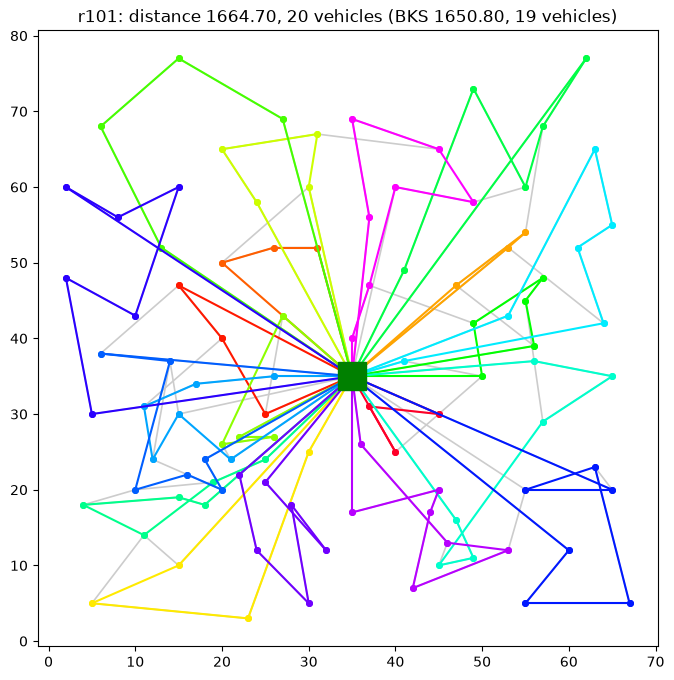
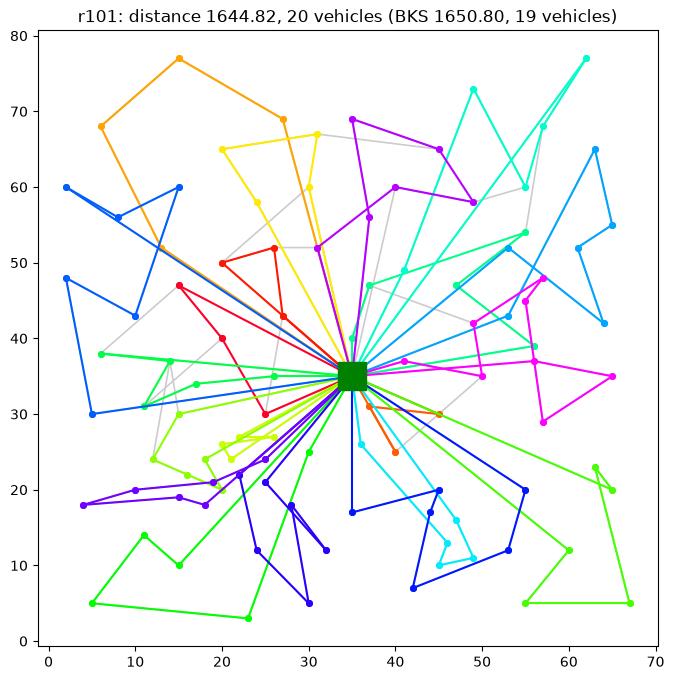
docs: refresh benchmark results (120s, max_failed_iters=50)
Full 56-instance run at 120 s/instance with the stagnation cutoff
raised to 50 non-improving iterations, seed 42: mean BKS gap +0.81%
(was +2.05%), fleet 442 vs 405 (r111/r112/rc106 each one vehicle
fewer), 19 same-fleet distance improvements and no regressions vs the
previous 60 s baseline. The r101/rc101/rc201 showcase solutions
improved and their images are re-rendered.

diff --git a/README.md b/README.md
@@ -101,17 +101,17 @@ tests/          one test file per source submodule
 
 ## Results
 
-All 56 Solomon 100-customer instances, 60 s budget per instance, seeded run (`rng=random.Random(42)`), default settings (hierarchical objective), 2026-07-09. Total wall time 25.6 min — most runs converge and stop on the 20-failure streak well before the 60 s cap. Mean distance gap to the [SINTEF best-known solutions](https://www.sintef.no/projectweb/top/vrptw/solomon-benchmark/) is **+2.05%**, with the best-known vehicle count matched on **27/56** instances (total fleet 445 vs 405) and 13 instances solved to the exact best-known solution. A negative gap means less distance than the BKS using extra vehicles — not a better solution under the hierarchical objective.
+All 56 Solomon 100-customer instances, 120 s budget per instance with the stagnation cutoff raised to 50 non-improving iterations (`max_failed_iters=50`), seeded run (`rng=random.Random(42)`), default settings (hierarchical objective), 2026-07-14. Total wall time 58.2 min — most runs still converge and stop on the failure streak before the 120 s cap (7/56 hit it). Mean distance gap to the [SINTEF best-known solutions](https://www.sintef.no/projectweb/top/vrptw/solomon-benchmark/) is **+0.81%**, with the best-known vehicle count matched on **27/56** instances (total fleet 442 vs 405) and 13 instances solved to the exact best-known solution. A negative gap means less distance than the BKS using extra vehicles — not a better solution under the hierarchical objective.
 
 | class | instances | mean gap | fleet (BKS) | at BKS fleet | time |
 |-------|--:|--:|--:|--:|--:|
-| C1 | 9 | +1.32% | 90 (90) | 9/9 | 1.9 min |
-| C2 | 8 | +1.11% | 24 (24) | 8/8 | 3.3 min |
-| R1 | 12 | +0.48% | 160 (143) | 0/12 | 4.5 min |
-| R2 | 11 | +1.92% | 36 (30) | 5/11 | 7.7 min |
-| RC1 | 8 | +2.09% | 106 (92) | 0/8 | 3.0 min |
-| RC2 | 8 | +6.34% | 29 (26) | 5/8 | 5.2 min |
-| **all** | **56** | **+2.05%** | **445 (405)** | **27/56** | **25.6 min** |
+| C1 | 9 | +1.32% | 90 (90) | 9/9 | 4.2 min |
+| C2 | 8 | +0.73% | 24 (24) | 8/8 | 7.1 min |
+| R1 | 12 | -0.48% | 158 (143) | 0/12 | 10.2 min |
+| R2 | 11 | +0.68% | 36 (30) | 5/11 | 17.4 min |
+| RC1 | 8 | +0.99% | 105 (92) | 0/8 | 6.0 min |
+| RC2 | 8 | +2.25% | 29 (26) | 5/8 | 13.3 min |
+| **all** | **56** | **+0.81%** | **442 (405)** | **27/56** | **58.2 min** |
 
 One solved instance per Solomon class from this run — the light-grey routes underneath are the SINTEF best-known solution (fetched with `uv run python scripts/fetch_bks_solutions.py` into [`data/solutions/solomon-bks/`](data/solutions/solomon-bks/)). The `.sol` files live in [`data/solutions/solomon/`](data/solutions/solomon/), and the images are rendered from them with `uv run python scripts/render_readme_images.py`:
 
@@ -121,12 +121,12 @@ One solved instance per Solomon class from this run — the light-grey routes un
     <td><img src="docs/solutions/c201.png" alt="c201 solution: distance 591.56, 3 vehicles (BKS 591.56, 3 vehicles)" width="400"></td>
   </tr>
   <tr>
-    <td><img src="docs/solutions/r101.png" alt="r101 solution: distance 1664.70, 20 vehicles (BKS 1650.80, 19 vehicles)" width="400"></td>
+    <td><img src="docs/solutions/r101.png" alt="r101 solution: distance 1644.82, 20 vehicles (BKS 1650.80, 19 vehicles)" width="400"></td>
     <td><img src="docs/solutions/r201.png" alt="r201 solution: distance 1263.38, 4 vehicles (BKS 1252.37, 4 vehicles)" width="400"></td>
   </tr>
   <tr>
-    <td><img src="docs/solutions/rc101.png" alt="rc101 solution: distance 1685.47, 16 vehicles (BKS 1696.95, 14 vehicles)" width="400"></td>
-    <td><img src="docs/solutions/rc201.png" alt="rc201 solution: distance 1534.84, 4 vehicles (BKS 1406.94, 4 vehicles)" width="400"></td>
+    <td><img src="docs/solutions/rc101.png" alt="rc101 solution: distance 1670.12, 16 vehicles (BKS 1696.95, 14 vehicles)" width="400"></td>
+    <td><img src="docs/solutions/rc201.png" alt="rc201 solution: distance 1462.75, 4 vehicles (BKS 1406.94, 4 vehicles)" width="400"></td>
   </tr>
 </table>
 
@@ -137,86 +137,86 @@ One solved instance per Solomon class from this run — the light-grey routes un
 
 | instance | distance | BKS distance | gap | vehicles | BKS vehicles | time (s) |
 |----------|--:|--:|--:|--:|--:|--:|
-| c101 | 828.94 | 828.94 | +0.00% | 10 | 10 | 4.0 |
-| c102 | 828.94 | 828.94 | +0.00% | 10 | 10 | 15.9 |
-| c103 | 878.36 | 828.06 | +6.07% | 10 | 10 | 25.1 |
-| c104 | 872.78 | 824.78 | +5.82% | 10 | 10 | 21.8 |
-| c105 | 828.94 | 828.94 | +0.00% | 10 | 10 | 4.6 |
-| c106 | 828.94 | 828.94 | +0.00% | 10 | 10 | 6.9 |
-| c107 | 828.94 | 828.94 | +0.00% | 10 | 10 | 7.4 |
-| c108 | 828.94 | 828.94 | +0.00% | 10 | 10 | 13.0 |
-| c109 | 828.94 | 828.94 | +0.00% | 10 | 10 | 14.6 |
+| c101 | 828.94 | 828.94 | +0.00% | 10 | 10 | 9.8 |
+| c102 | 828.94 | 828.94 | +0.00% | 10 | 10 | 35.9 |
+| c103 | 878.36 | 828.06 | +6.07% | 10 | 10 | 48.8 |
+| c104 | 872.78 | 824.78 | +5.82% | 10 | 10 | 46.5 |
+| c105 | 828.94 | 828.94 | +0.00% | 10 | 10 | 11.7 |
+| c106 | 828.94 | 828.94 | +0.00% | 10 | 10 | 17.5 |
+| c107 | 828.94 | 828.94 | +0.00% | 10 | 10 | 18.5 |
+| c108 | 828.94 | 828.94 | +0.00% | 10 | 10 | 29.9 |
+| c109 | 828.94 | 828.94 | +0.00% | 10 | 10 | 34.2 |
 
 **C2**
 
 | instance | distance | BKS distance | gap | vehicles | BKS vehicles | time (s) |
 |----------|--:|--:|--:|--:|--:|--:|
-| c201 | 591.56 | 591.56 | +0.00% | 3 | 3 | 4.3 |
-| c202 | 591.56 | 591.56 | +0.00% | 3 | 3 | 36.0 |
-| c203 | 600.21 | 591.17 | +1.53% | 3 | 3 | 37.3 |
-| c204 | 634.22 | 590.60 | +7.39% | 3 | 3 | 60.0 |
-| c205 | 588.88 | 588.88 | +0.00% | 3 | 3 | 10.2 |
-| c206 | 588.49 | 588.49 | +0.00% | 3 | 3 | 14.1 |
-| c207 | 588.29 | 588.29 | +0.00% | 3 | 3 | 16.5 |
-| c208 | 588.32 | 588.32 | +0.00% | 3 | 3 | 18.6 |
+| c201 | 591.56 | 591.56 | +0.00% | 3 | 3 | 9.8 |
+| c202 | 591.56 | 591.56 | +0.00% | 3 | 3 | 68.5 |
+| c203 | 600.21 | 591.17 | +1.53% | 3 | 3 | 73.0 |
+| c204 | 616.19 | 590.60 | +4.33% | 3 | 3 | 120.0 |
+| c205 | 588.88 | 588.88 | +0.00% | 3 | 3 | 24.8 |
+| c206 | 588.49 | 588.49 | +0.00% | 3 | 3 | 35.5 |
+| c207 | 588.29 | 588.29 | +0.00% | 3 | 3 | 46.4 |
+| c208 | 588.32 | 588.32 | +0.00% | 3 | 3 | 48.5 |
 
 **R1**
 
 | instance | distance | BKS distance | gap | vehicles | BKS vehicles | time (s) |
 |----------|--:|--:|--:|--:|--:|--:|
-| r101 | 1664.70 | 1650.80 | +0.84% | 20 | 19 | 13.2 |
-| r102 | 1473.65 | 1486.12 | -0.84% | 18 | 17 | 24.9 |
-| r103 | 1226.31 | 1292.68 | -5.13% | 14 | 13 | 16.8 |
-| r104 | 1044.09 | 1007.31 | +3.65% | 11 | 9 | 24.8 |
-| r105 | 1381.10 | 1377.11 | +0.29% | 15 | 14 | 27.2 |
-| r106 | 1271.81 | 1252.03 | +1.58% | 13 | 12 | 18.4 |
-| r107 | 1088.83 | 1104.66 | -1.43% | 11 | 10 | 32.8 |
-| r108 | 989.43 | 960.88 | +2.97% | 10 | 9 | 26.7 |
-| r109 | 1190.94 | 1194.73 | -0.32% | 13 | 11 | 15.0 |
-| r110 | 1132.72 | 1118.84 | +1.24% | 12 | 10 | 11.7 |
-| r111 | 1089.47 | 1096.73 | -0.66% | 12 | 10 | 40.6 |
-| r112 | 1016.59 | 982.14 | +3.51% | 11 | 9 | 20.4 |
+| r101 | 1644.82 | 1650.80 | -0.36% | 20 | 19 | 31.8 |
+| r102 | 1473.65 | 1486.12 | -0.84% | 18 | 17 | 40.8 |
+| r103 | 1226.31 | 1292.68 | -5.13% | 14 | 13 | 35.8 |
+| r104 | 1044.09 | 1007.31 | +3.65% | 11 | 9 | 44.4 |
+| r105 | 1381.10 | 1377.11 | +0.29% | 15 | 14 | 37.5 |
+| r106 | 1271.81 | 1252.03 | +1.58% | 13 | 12 | 33.9 |
+| r107 | 1088.83 | 1104.66 | -1.43% | 11 | 10 | 51.1 |
+| r108 | 973.19 | 960.88 | +1.28% | 10 | 9 | 69.8 |
+| r109 | 1169.18 | 1194.73 | -2.14% | 13 | 11 | 47.4 |
+| r110 | 1110.30 | 1118.84 | -0.76% | 12 | 10 | 47.5 |
+| r111 | 1077.53 | 1096.73 | -1.75% | 11 | 10 | 105.5 |
+| r112 | 980.48 | 982.14 | -0.17% | 10 | 9 | 64.9 |
 
 **R2**
 
 | instance | distance | BKS distance | gap | vehicles | BKS vehicles | time (s) |
 |----------|--:|--:|--:|--:|--:|--:|
-| r201 | 1263.38 | 1252.37 | +0.88% | 4 | 4 | 43.4 |
-| r202 | 1119.04 | 1191.70 | -6.10% | 4 | 3 | 26.2 |
-| r203 | 1043.18 | 939.50 | +11.04% | 3 | 3 | 48.6 |
-| r204 | 803.12 | 825.52 | -2.71% | 3 | 2 | 36.9 |
-| r205 | 1058.78 | 994.43 | +6.47% | 4 | 3 | 37.3 |
-| r206 | 925.98 | 906.14 | +2.19% | 3 | 3 | 40.5 |
-| r207 | 887.64 | 890.61 | -0.33% | 3 | 2 | 44.7 |
-| r208 | 771.18 | 726.82 | +6.10% | 3 | 2 | 53.9 |
-| r209 | 930.47 | 909.16 | +2.34% | 3 | 3 | 43.4 |
-| r210 | 1019.08 | 939.37 | +8.49% | 3 | 3 | 30.5 |
-| r211 | 821.11 | 885.71 | -7.29% | 3 | 2 | 57.2 |
+| r201 | 1263.38 | 1252.37 | +0.88% | 4 | 4 | 68.7 |
+| r202 | 1119.04 | 1191.70 | -6.10% | 4 | 3 | 57.4 |
+| r203 | 1009.34 | 939.50 | +7.43% | 3 | 3 | 120.0 |
+| r204 | 803.12 | 825.52 | -2.71% | 3 | 2 | 76.2 |
+| r205 | 1015.88 | 994.43 | +2.16% | 4 | 3 | 120.0 |
+| r206 | 925.98 | 906.14 | +2.19% | 3 | 3 | 74.0 |
+| r207 | 887.64 | 890.61 | -0.33% | 3 | 2 | 88.9 |
+| r208 | 757.75 | 726.82 | +4.26% | 3 | 2 | 120.0 |
+| r209 | 927.85 | 909.16 | +2.06% | 3 | 3 | 120.0 |
+| r210 | 985.69 | 939.37 | +4.93% | 3 | 3 | 105.8 |
+| r211 | 821.11 | 885.71 | -7.29% | 3 | 2 | 92.1 |
 
 **RC1**
 
 | instance | distance | BKS distance | gap | vehicles | BKS vehicles | time (s) |
 |----------|--:|--:|--:|--:|--:|--:|
-| rc101 | 1685.47 | 1696.95 | -0.68% | 16 | 14 | 5.5 |
-| rc102 | 1520.20 | 1554.75 | -2.22% | 14 | 12 | 17.7 |
-| rc103 | 1368.35 | 1261.67 | +8.46% | 13 | 11 | 21.3 |
-| rc104 | 1165.15 | 1135.48 | +2.61% | 11 | 10 | 48.0 |
-| rc105 | 1578.39 | 1629.44 | -3.13% | 15 | 13 | 25.6 |
-| rc106 | 1448.30 | 1424.73 | +1.65% | 14 | 11 | 14.9 |
-| rc107 | 1289.07 | 1230.48 | +4.76% | 12 | 11 | 22.6 |
-| rc108 | 1199.70 | 1139.82 | +5.25% | 11 | 10 | 22.5 |
+| rc101 | 1670.12 | 1696.95 | -1.58% | 16 | 14 | 25.7 |
+| rc102 | 1520.20 | 1554.75 | -2.22% | 14 | 12 | 32.4 |
+| rc103 | 1368.35 | 1261.67 | +8.46% | 13 | 11 | 38.0 |
+| rc104 | 1165.15 | 1135.48 | +2.61% | 11 | 10 | 66.1 |
+| rc105 | 1578.39 | 1629.44 | -3.13% | 15 | 13 | 38.4 |
+| rc106 | 1397.48 | 1424.73 | -1.91% | 13 | 11 | 51.3 |
+| rc107 | 1289.07 | 1230.48 | +4.76% | 12 | 11 | 35.6 |
+| rc108 | 1150.11 | 1139.82 | +0.90% | 11 | 10 | 69.8 |
 
 **RC2**
 
 | instance | distance | BKS distance | gap | vehicles | BKS vehicles | time (s) |
 |----------|--:|--:|--:|--:|--:|--:|
-| rc201 | 1534.84 | 1406.94 | +9.09% | 4 | 4 | 24.8 |
-| rc202 | 1238.85 | 1365.65 | -9.28% | 4 | 3 | 24.4 |
-| rc203 | 1171.71 | 1049.62 | +11.63% | 3 | 3 | 57.0 |
-| rc204 | 953.68 | 798.46 | +19.44% | 3 | 3 | 25.8 |
-| rc205 | 1249.66 | 1297.65 | -3.70% | 5 | 4 | 60.0 |
-| rc206 | 1187.06 | 1146.32 | +3.55% | 4 | 3 | 27.1 |
-| rc207 | 1152.23 | 1061.14 | +8.58% | 3 | 3 | 53.5 |
-| rc208 | 922.52 | 828.14 | +11.40% | 3 | 3 | 36.9 |
+| rc201 | 1462.75 | 1406.94 | +3.97% | 4 | 4 | 70.4 |
+| rc202 | 1200.77 | 1365.65 | -12.07% | 4 | 3 | 80.8 |
+| rc203 | 1163.68 | 1049.62 | +10.87% | 3 | 3 | 120.0 |
+| rc204 | 902.39 | 798.46 | +13.02% | 3 | 3 | 98.5 |
+| rc205 | 1249.66 | 1297.65 | -3.70% | 5 | 4 | 92.8 |
+| rc206 | 1117.35 | 1146.32 | -2.53% | 4 | 3 | 100.1 |
+| rc207 | 1101.24 | 1061.14 | +3.78% | 3 | 3 | 117.5 |
+| rc208 | 866.98 | 828.14 | +4.69% | 3 | 3 | 120.0 |
 
 </details>
